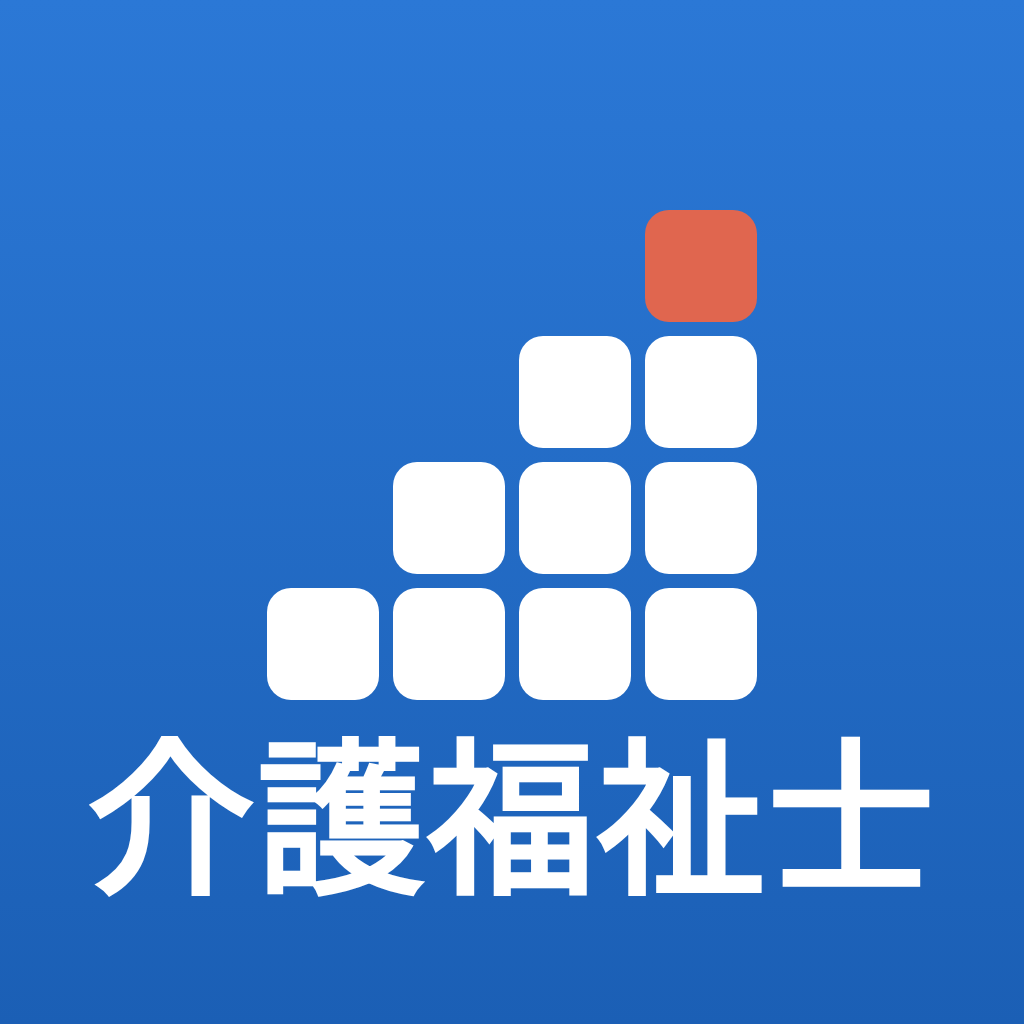
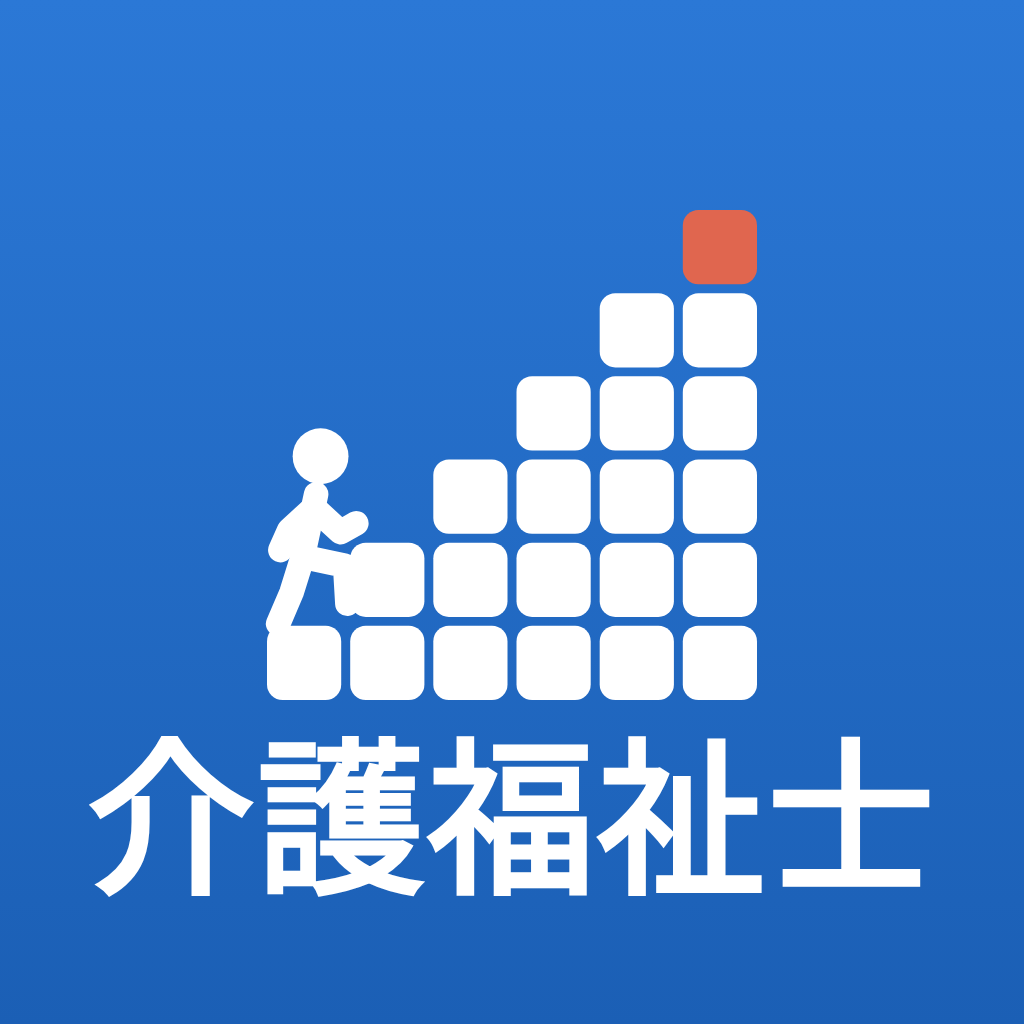
アイコンを6段の階段＋上る人に変更
Claude-Session: https://claude.ai/code/session_016zB87FXbD785uSkpdnPZnq

Changed region(s): [[0.25, 0.1875, 0.75, 0.6875], [0.4688, 0.6562, 0.5312, 0.6875]]

diff --git a/docs/sw.js b/docs/sw.js
@@ -1,6 +1,6 @@
 // オフラインでも開けるよう、アプリ本体をキャッシュする
 // 教材や画面を更新したら VERSION を上げる（古いキャッシュが入れ替わる）
-const VERSION = "v22";
+const VERSION = "v23";
 const CACHE = "matome-anki-" + VERSION;
 const FILES = ["./", "./index.html", "./manifest.webmanifest", "./icon-192.png", "./icon-512.png", "./apple-touch-icon.png"];
 

diff --git a/pwa/sw.js b/pwa/sw.js
@@ -1,6 +1,6 @@
 // オフラインでも開けるよう、アプリ本体をキャッシュする
 // 教材や画面を更新したら VERSION を上げる（古いキャッシュが入れ替わる）
-const VERSION = "v22";
+const VERSION = "v23";
 const CACHE = "matome-anki-" + VERSION;
 const FILES = ["./", "./index.html", "./manifest.webmanifest", "./icon-192.png", "./icon-512.png", "./apple-touch-icon.png"];
 
